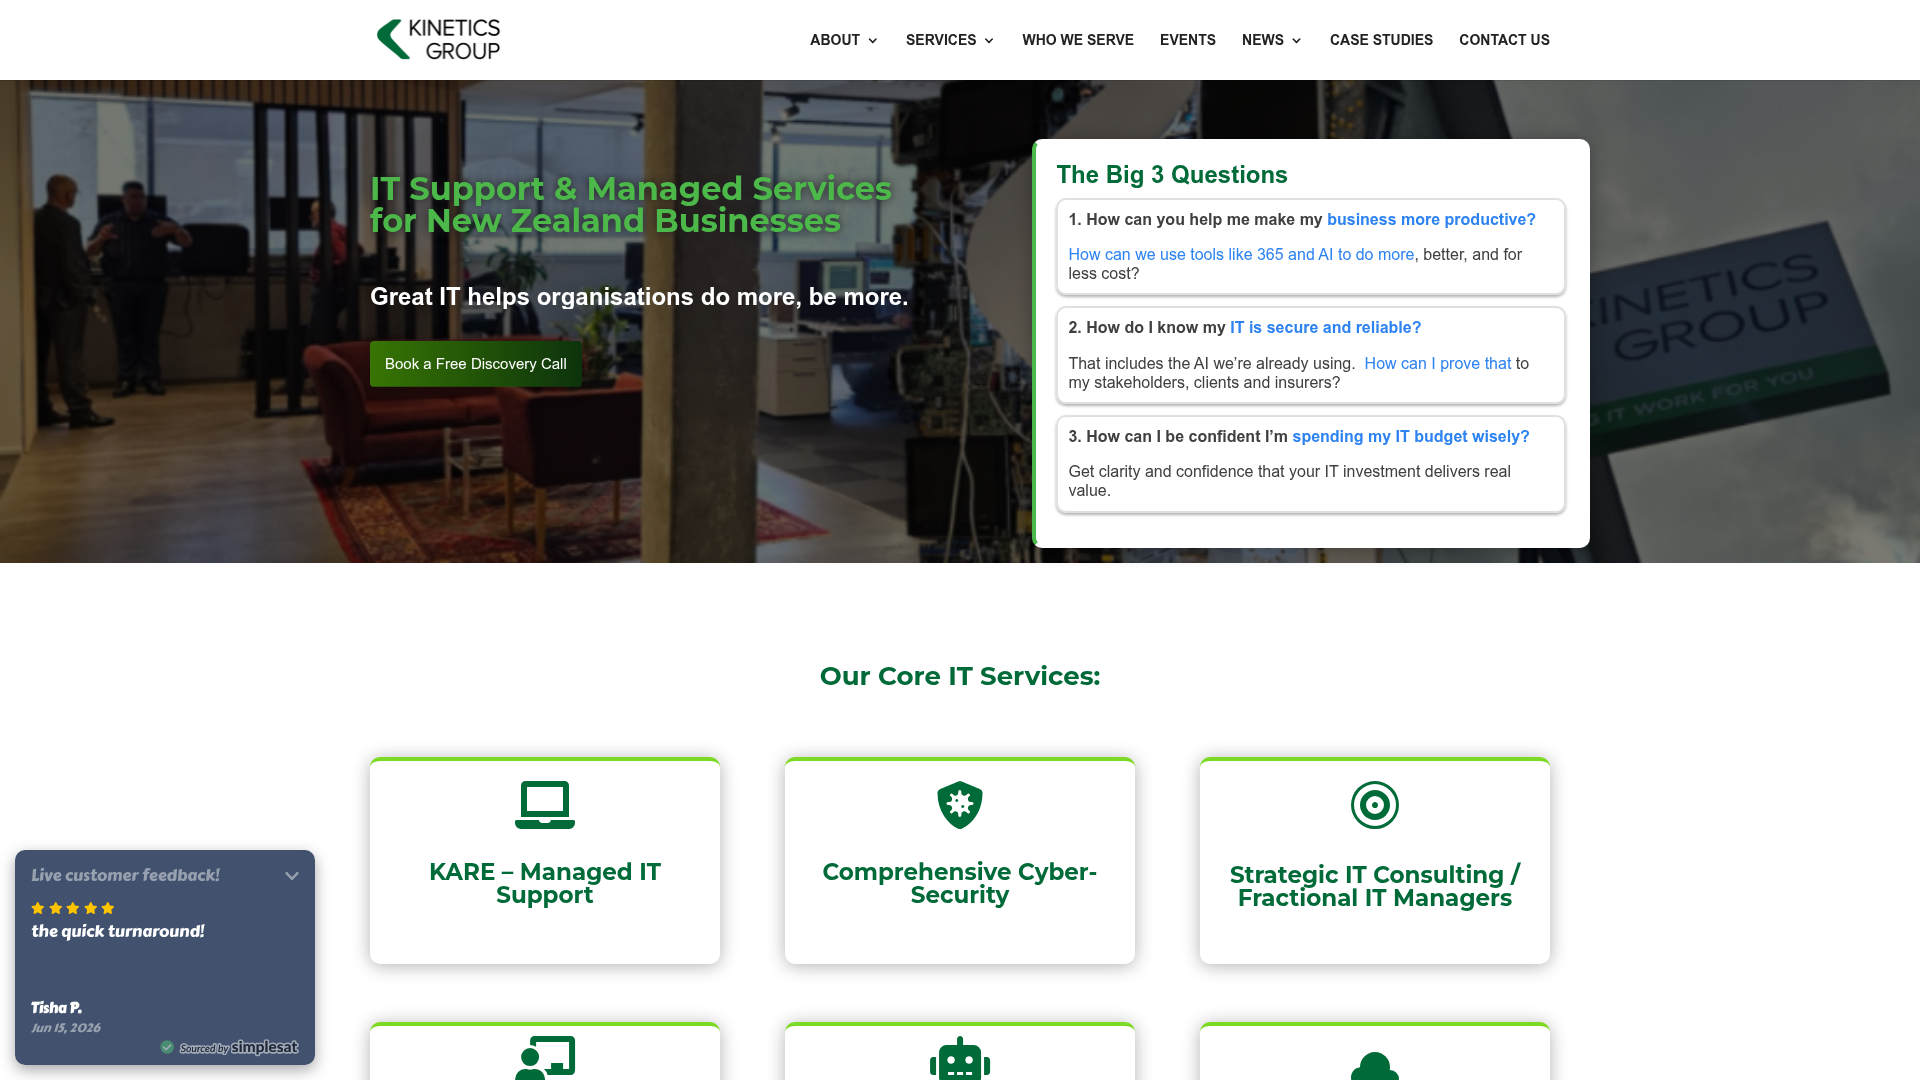
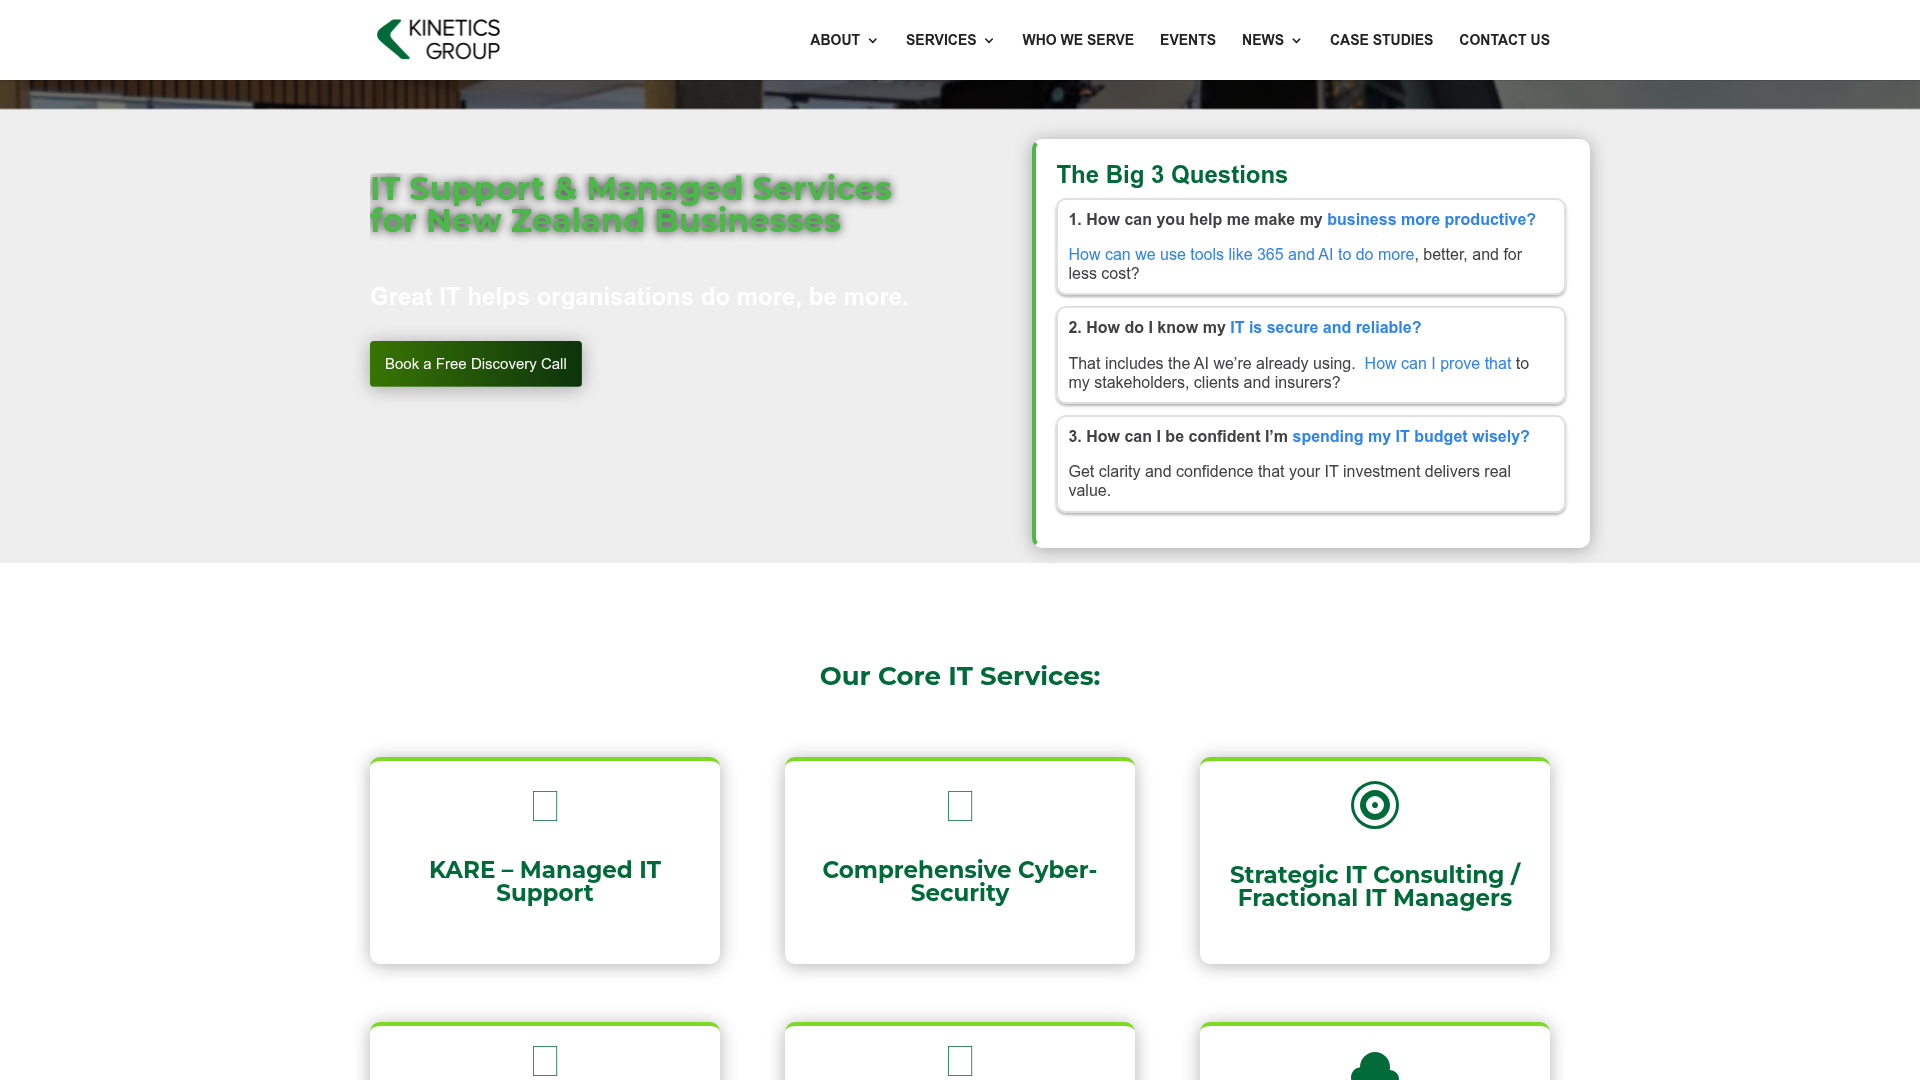
Update app appearance to reflect Kinetics brand colors
Refactors UI components and CSS variables to implement a new design theme based on Kinetics brand colors, featuring a deep green gradient shell, lime accents, and updated typography.

Replit-Commit-Author: Agent
Replit-Commit-Session-Id: f0d636d4-1c5a-4613-9a37-bdce735b9d8c
Replit-Commit-Checkpoint-Type: full_checkpoint
Replit-Commit-Event-Id: 48545389-15d8-4ea9-9f31-6d89f6468fd5
Replit-Commit-Screenshot-Url: https://storage.googleapis.com/screenshot-production-us-central1/de35245e-40cb-4d06-a164-f20d350a6d02/f0d636d4-1c5a-4613-9a37-bdce735b9d8c/peLIXUW
Replit-Helium-Checkpoint-Created: true

diff --git a/artifacts/ai-innovation-circle/src/index.css b/artifacts/ai-innovation-circle/src/index.css
@@ -105,50 +105,55 @@
   --elevate-1: rgba(0,0,0, .03);
   --elevate-2: rgba(0,0,0, .08);
 
-  --background: 210 20% 98%;
-  --foreground: 222.2 84% 4.9%;
+  /* Kinetics brand tokens */
+  --brand-forest: 142 64% 26%;
+  --brand-forest-deep: 150 52% 13%;
+  --brand-lime: 84 62% 50%;
 
-  --border: 214.3 31.8% 91.4%;
+  --background: 150 20% 98%;
+  --foreground: 155 30% 12%;
+
+  --border: 150 16% 90%;
 
   --card: 0 0% 100%;
-  --card-foreground: 222.2 84% 4.9%;
-  --card-border: 214.3 31.8% 91.4%;
+  --card-foreground: 155 30% 12%;
+  --card-border: 150 16% 90%;
 
-  --sidebar: 210 18% 90%;
-  --sidebar-foreground: 222.2 84% 4.9%;
-  --sidebar-border: 214.3 28% 85%;
-  --sidebar-primary: 126 55% 40%;
-  --sidebar-primary-foreground: 210 40% 98%;
-  --sidebar-accent: 210 40% 96.1%;
-  --sidebar-accent-foreground: 222.2 47.4% 11.2%;
-  --sidebar-ring: 215 20.2% 65.1%;
+  --sidebar: 150 52% 13%;
+  --sidebar-foreground: 140 18% 88%;
+  --sidebar-border: 150 30% 20%;
+  --sidebar-primary: 84 62% 52%;
+  --sidebar-primary-foreground: 150 60% 10%;
+  --sidebar-accent: 150 34% 19%;
+  --sidebar-accent-foreground: 0 0% 100%;
+  --sidebar-ring: 84 62% 52%;
 
   --popover: 0 0% 100%;
-  --popover-foreground: 222.2 84% 4.9%;
-  --popover-border: 214.3 31.8% 91.4%;
+  --popover-foreground: 155 30% 12%;
+  --popover-border: 150 16% 90%;
 
-  --primary: 126 55% 40%;
-  --primary-foreground: 210 40% 98%;
+  --primary: 142 64% 26%;
+  --primary-foreground: 140 40% 98%;
 
-  --secondary: 210 40% 96.1%;
-  --secondary-foreground: 222.2 47.4% 11.2%;
+  --secondary: 150 30% 95%;
+  --secondary-foreground: 150 40% 16%;
 
-  --muted: 210 40% 96.1%;
-  --muted-foreground: 215.4 16.3% 46.9%;
+  --muted: 150 22% 95.5%;
+  --muted-foreground: 155 12% 42%;
 
-  --accent: 210 40% 96.1%;
-  --accent-foreground: 222.2 47.4% 11.2%;
+  --accent: 84 55% 92%;
+  --accent-foreground: 142 64% 22%;
 
-  --destructive: 0 84.2% 60.2%;
+  --destructive: 0 72% 51%;
   --destructive-foreground: 210 40% 98%;
 
-  --input: 214.3 31.8% 91.4%;
-  --ring: 126 55% 40%;
-  --chart-1: 126 55% 40%;
-  --chart-2: 87 70% 50%;
-  --chart-3: 150 45% 35%;
-  --chart-4: 100 45% 62%;
-  --chart-5: 130 28% 58%;
+  --input: 150 16% 90%;
+  --ring: 142 64% 30%;
+  --chart-1: 142 64% 30%;
+  --chart-2: 84 62% 50%;
+  --chart-3: 150 45% 22%;
+  --chart-4: 100 45% 55%;
+  --chart-5: 168 40% 38%;
 
   --app-font-sans: 'Inter', sans-serif;
   --app-font-serif: Georgia, serif;
@@ -215,14 +220,14 @@
   --card-foreground: 210 40% 98%;
   --card-border: 217.2 32.6% 17.5%;
 
-  --sidebar: 222.2 84% 4.9%;
-  --sidebar-foreground: 210 40% 98%;
-  --sidebar-border: 217.2 32.6% 17.5%;
-  --sidebar-primary: 126 52% 48%;
-  --sidebar-primary-foreground: 222.2 47.4% 11.2%;
-  --sidebar-accent: 217.2 32.6% 17.5%;
+  --sidebar: 150 45% 9%;
+  --sidebar-foreground: 140 18% 88%;
+  --sidebar-border: 150 25% 18%;
+  --sidebar-primary: 84 62% 52%;
+  --sidebar-primary-foreground: 150 60% 10%;
+  --sidebar-accent: 150 30% 16%;
   --sidebar-accent-foreground: 210 40% 98%;
-  --sidebar-ring: 212.7 26.8% 83.9%;
+  --sidebar-ring: 84 62% 52%;
 
   --popover: 222.2 84% 4.9%;
   --popover-foreground: 210 40% 98%;
@@ -381,5 +386,90 @@
   .border.active-elevate-2:not(.no-active-interaction-elevate)::after,
   .border.hover-elevate:not(.no-hover-interaction-elevate)::after {
     inset: -1px;
+  }
+}
+
+/* ── Kinetics brand utilities ─────────────────────────────────────────── */
+@layer utilities {
+  /* Deep forest gradient for hero / shell surfaces */
+  .brand-gradient {
+    background-image: linear-gradient(
+      120deg,
+      hsl(var(--brand-forest-deep)) 0%,
+      hsl(150 50% 16%) 55%,
+      hsl(var(--brand-forest)) 100%
+    );
+  }
+
+  /* Subtle lime glow radial, layered over brand-gradient for depth */
+  .brand-glow {
+    position: relative;
+    overflow: hidden;
+  }
+  .brand-glow::after {
+    content: "";
+    position: absolute;
+    top: -40%;
+    right: -10%;
+    width: 55%;
+    height: 180%;
+    background: radial-gradient(
+      closest-side,
+      hsl(var(--brand-lime) / 0.22),
+      transparent
+    );
+    pointer-events: none;
+  }
+
+  /* Forest → lime text gradient for headings */
+  .text-gradient {
+    background-image: linear-gradient(
+      90deg,
+      hsl(var(--brand-forest)),
+      hsl(84 60% 42%)
+    );
+    -webkit-background-clip: text;
+    background-clip: text;
+    color: transparent;
+  }
+
+  /* Soft, green-tinted elevation */
+  .shadow-brand {
+    box-shadow:
+      0 1px 2px hsl(150 30% 18% / 0.06),
+      0 10px 28px -12px hsl(150 45% 20% / 0.16);
+  }
+
+  /* Lift on hover for interactive cards */
+  .hover-lift {
+    transition:
+      transform 0.2s ease,
+      box-shadow 0.2s ease;
+  }
+  .hover-lift:hover {
+    transform: translateY(-3px);
+    box-shadow:
+      0 4px 8px hsl(150 30% 18% / 0.08),
+      0 18px 36px -12px hsl(150 45% 20% / 0.22);
+  }
+
+  /* Lime→forest accent bar across the top edge of a card */
+  .card-accent {
+    position: relative;
+    overflow: hidden;
+  }
+  .card-accent::before {
+    content: "";
+    position: absolute;
+    top: 0;
+    left: 0;
+    right: 0;
+    height: 3px;
+    border-radius: var(--radius) var(--radius) 0 0;
+    background-image: linear-gradient(
+      90deg,
+      hsl(var(--brand-forest)),
+      hsl(var(--brand-lime))
+    );
   }
 }

diff --git a/artifacts/ai-innovation-circle/src/components/layout/AppLayout.tsx b/artifacts/ai-innovation-circle/src/components/layout/AppLayout.tsx
@@ -91,12 +91,19 @@ export function AppLayout({ children }: { children: React.ReactNode }) {
         <Sidebar>
           <SidebarContent>
             <div className="h-16 flex items-center px-6 border-b border-sidebar-border">
-              <KineticsLogo className="h-8 w-auto" />
+              <div className="rounded-md bg-white px-3 py-1.5 shadow-sm">
+                <KineticsLogo className="h-6 w-auto" />
+              </div>
             </div>
             <div className="p-6 space-y-4">
-              <div>
-                <p className="text-sm font-medium">{user.name}</p>
-                <p className="text-xs text-muted-foreground">{user.role === 'admin' ? 'Administrator' : 'Consulting Client'}</p>
+              <div className="flex items-center gap-3">
+                <div className="flex h-9 w-9 shrink-0 items-center justify-center rounded-full bg-sidebar-primary text-sidebar-primary-foreground text-sm font-semibold">
+                  {user.name?.charAt(0)?.toUpperCase() ?? "?"}
+                </div>
+                <div className="min-w-0">
+                  <p className="text-sm font-medium truncate text-sidebar-foreground">{user.name}</p>
+                  <p className="text-xs text-sidebar-foreground/60">{user.role === 'admin' ? 'Administrator' : 'Consulting Client'}</p>
+                </div>
               </div>
               {isAdmin && <CircleSwitcher />}
             </div>
@@ -122,16 +129,20 @@ export function AppLayout({ children }: { children: React.ReactNode }) {
             </SidebarGroup>
           </SidebarContent>
           <SidebarFooter className="p-4">
-            <Button variant="ghost" className="w-full justify-start text-muted-foreground" onClick={handleLogout}>
+            <Button variant="ghost" className="w-full justify-start text-sidebar-foreground/80 hover:text-white hover:bg-sidebar-accent" onClick={handleLogout}>
               <LogOut className="mr-2 h-4 w-4" />
               Sign Out
             </Button>
           </SidebarFooter>
         </Sidebar>
         <div className="flex-1 flex flex-col min-w-0">
-          <header className="h-16 flex items-center gap-3 px-6 bg-sidebar text-sidebar-foreground border-b border-sidebar-border">
-            <SidebarTrigger className="text-sidebar-foreground -ml-1" />
-            <h1 className="text-base font-semibold tracking-tight">Kinetics Group Innovation Hubs</h1>
+          <header className="relative h-16 flex items-center gap-3 px-6 brand-gradient brand-glow text-sidebar-foreground border-b border-sidebar-border">
+            <SidebarTrigger className="text-sidebar-foreground hover:text-white -ml-1 relative z-10" />
+            <div className="relative z-10 flex items-baseline gap-2">
+              <h1 className="text-base font-semibold tracking-tight text-white">Kinetics Group</h1>
+              <span className="text-base font-light tracking-tight text-[hsl(var(--brand-lime))]">Innovation Hubs</span>
+            </div>
+            <div className="absolute inset-x-0 bottom-0 h-px bg-gradient-to-r from-transparent via-[hsl(var(--brand-lime)/0.5)] to-transparent" />
           </header>
           <main className="flex-1 flex flex-col min-w-0 overflow-auto">
             {children}
@@ -154,14 +165,17 @@ function CircleSwitcher() {
 
   return (
     <div className="space-y-1.5">
-      <p className="text-[11px] font-semibold uppercase tracking-wide text-muted-foreground flex items-center gap-1.5">
-        <CircleDot className="h-3 w-3" /> Active Hub
+      <p className="text-[11px] font-semibold uppercase tracking-wide text-sidebar-foreground/70 flex items-center gap-1.5">
+        <CircleDot className="h-3 w-3 text-[hsl(var(--brand-lime))]" /> Active Hub
       </p>
       <Select
         value={activeCircleId !== null ? String(activeCircleId) : undefined}
         onValueChange={(v) => setActiveCircleId(parseInt(v, 10))}
       >
-        <SelectTrigger className="h-9" data-testid="select-active-circle">
+        <SelectTrigger
+          className="h-9 border-sidebar-border bg-sidebar-accent text-sidebar-foreground data-[placeholder]:text-sidebar-foreground/60 focus:ring-sidebar-ring"
+          data-testid="select-active-circle"
+        >
           <SelectValue placeholder="Select a hub" />
         </SelectTrigger>
         <SelectContent>

diff --git a/artifacts/ai-innovation-circle/src/pages/auth/login.tsx b/artifacts/ai-innovation-circle/src/pages/auth/login.tsx
@@ -64,22 +64,27 @@ export default function Login() {
     });
   };
 
-  if (isUserLoading) return <div className="h-screen w-full flex items-center justify-center bg-gray-50" />;
+  if (isUserLoading) return <div className="h-screen w-full brand-gradient" />;
 
   return (
-    <div className="min-h-screen w-full flex flex-col items-center justify-center bg-gray-50 p-4">
-      <div className="w-full max-w-md space-y-8">
-        <div className="text-center space-y-3">
+    <div className="relative min-h-screen w-full flex flex-col items-center justify-center brand-gradient brand-glow p-4">
+      <div className="pointer-events-none absolute -bottom-24 -left-24 h-72 w-72 rounded-full bg-[hsl(var(--brand-lime)/0.12)] blur-3xl" />
+      <div className="relative z-10 w-full max-w-md space-y-8">
+        <div className="text-center space-y-4">
           <div className="flex items-center justify-center">
-            <KineticsLogo className="h-14 w-auto" />
+            <div className="rounded-xl bg-white px-5 py-3 shadow-lg">
+              <KineticsLogo className="h-10 w-auto" />
+            </div>
           </div>
           <div className="space-y-1">
-            <h1 className="text-xl font-semibold tracking-tight text-gray-900">Kinetics Group Innovation Hubs</h1>
-            <p className="text-gray-500">Sign in to your account</p>
+            <h1 className="text-2xl font-semibold tracking-tight text-white">
+              Innovation Hubs
+            </h1>
+            <p className="text-[hsl(var(--brand-lime))]">Where great teams do more, be more.</p>
           </div>
         </div>
 
-        <Card className="border-gray-200 shadow-sm">
+        <Card className="border-white/10 shadow-2xl">
           <CardHeader>
             <CardTitle>Welcome back</CardTitle>
             <CardDescription>Enter your email to sign in.</CardDescription>

diff --git a/artifacts/ai-innovation-circle/src/pages/admin/dashboard.tsx b/artifacts/ai-innovation-circle/src/pages/admin/dashboard.tsx
@@ -36,16 +36,18 @@ export default function AdminDashboard() {
   return (
     <div className="p-8 max-w-6xl mx-auto space-y-8">
       <div>
-        <h1 className="text-3xl font-bold tracking-tight">Admin Dashboard</h1>
+        <h1 className="text-3xl font-bold tracking-tight text-gradient w-fit">Admin Dashboard</h1>
         <p className="text-muted-foreground mt-2">Overview of your Kinetics Group Innovation Hub.</p>
       </div>
 
       <div className="grid grid-cols-1 md:grid-cols-4 gap-4">
         {stats.map((stat) => (
-          <Card key={stat.label}>
+          <Card key={stat.label} className="card-accent hover-lift shadow-brand overflow-hidden">
             <CardHeader className="pb-2">
               <CardTitle className="text-sm font-medium text-muted-foreground flex items-center gap-2">
-                <stat.icon className="h-4 w-4" />
+                <span className={`flex h-8 w-8 items-center justify-center rounded-lg bg-primary/10 ${stat.color}`}>
+                  <stat.icon className="h-4 w-4" />
+                </span>
                 {stat.label}
               </CardTitle>
             </CardHeader>

diff --git a/.agents/memory/hub-circle-naming.md b/.agents/memory/hub-circle-naming.md
@@ -18,3 +18,11 @@ cascade through the OpenAPI contract, codegen, and DB with high risk for zero us
 
 **How to apply:** The user route was migrated `/admin/circles` → `/admin/hubs` with a wouter
 `<Redirect>` kept at the old path for back-compat. Any *new* user-facing copy should say "hub".
+
+## Branding / logo constraint
+The Kinetics logo (`src/assets/kinetics-logo.png`) is dark-green artwork on a transparent
+background, so it is invisible on dark surfaces. On the deep-green sidebar/header/login it
+must sit inside a white "chip" (rounded white container). Brand palette = deep forest green
+shell + vibrant lime accent (see `--brand-forest` / `--brand-lime` in index.css), inspired by
+kinetics.co.nz. Sidebar/header use `.brand-gradient`; text on the dark shell must use
+`text-sidebar-foreground` tokens, never `text-muted-foreground` (too dim on dark green).
